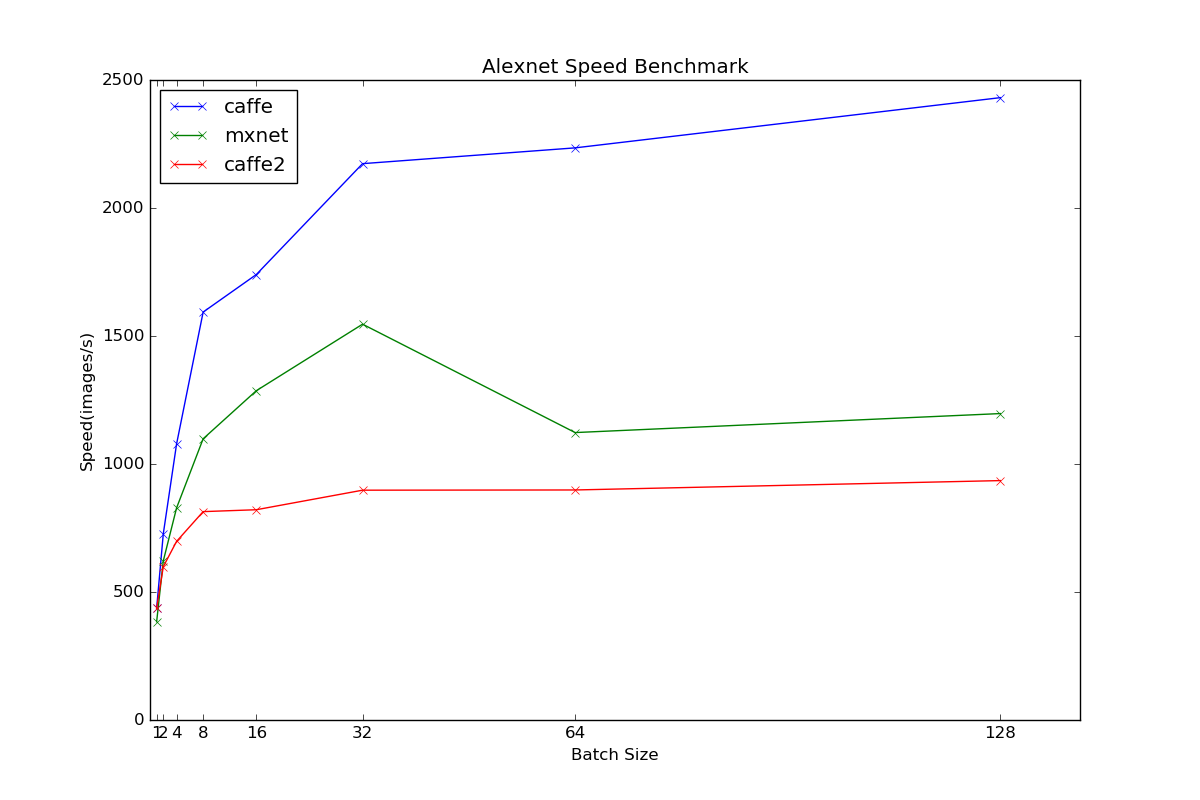
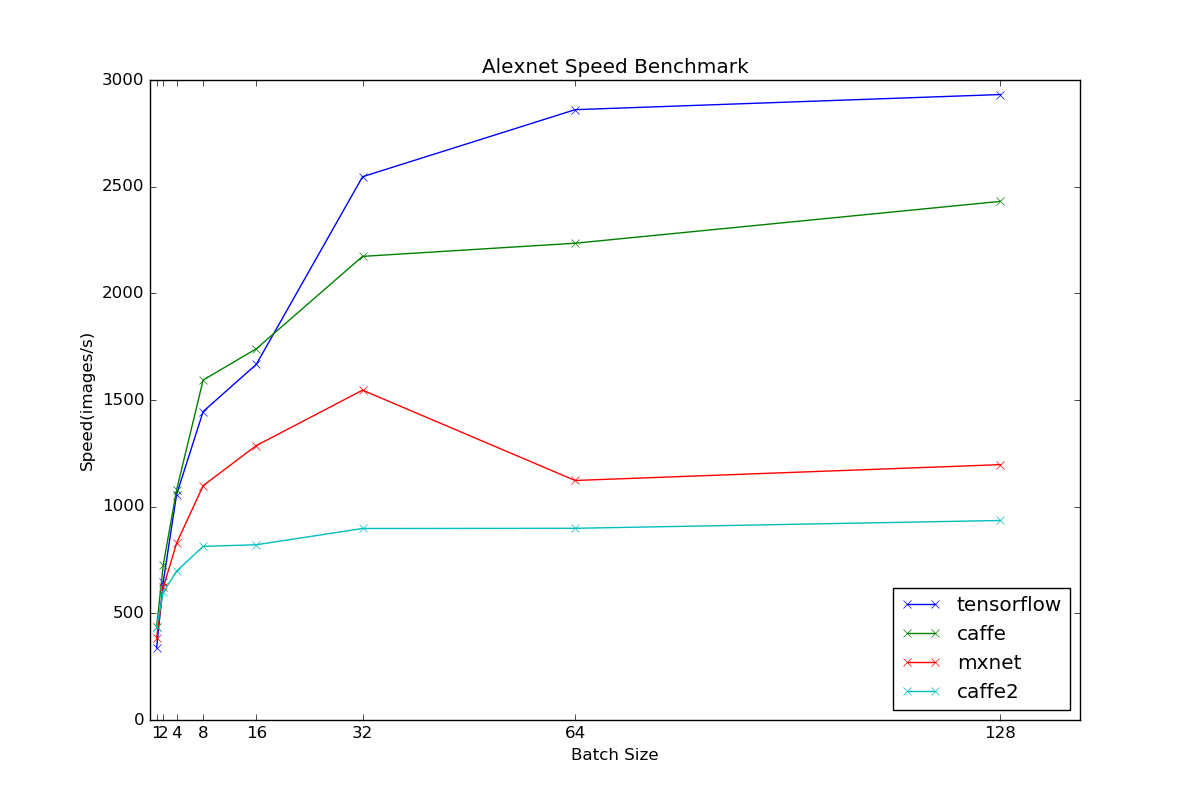
update gtx 1080 results

diff --git a/plot_speed.py b/plot_speed.py
@@ -67,7 +67,7 @@ if __name__ == '__main__':
             plt.plot(results[dllib]['batch_size'], results[dllib][target.lower()], label=dllib, marker='x')
             if len(results[dllib]['batch_size']) > len(xticks):
                 xticks = results[dllib]['batch_size']
-        plt.legend(loc=2)
+        plt.legend(loc=4)
         plt.xticks(xticks)
         res_path = os.path.join(args.res_dir, '%s_%s.png' % (args.network, target.lower().replace(' ', '_')))
         print('Save %s benchmark results to: %s' % (target.lower(), res_path))
